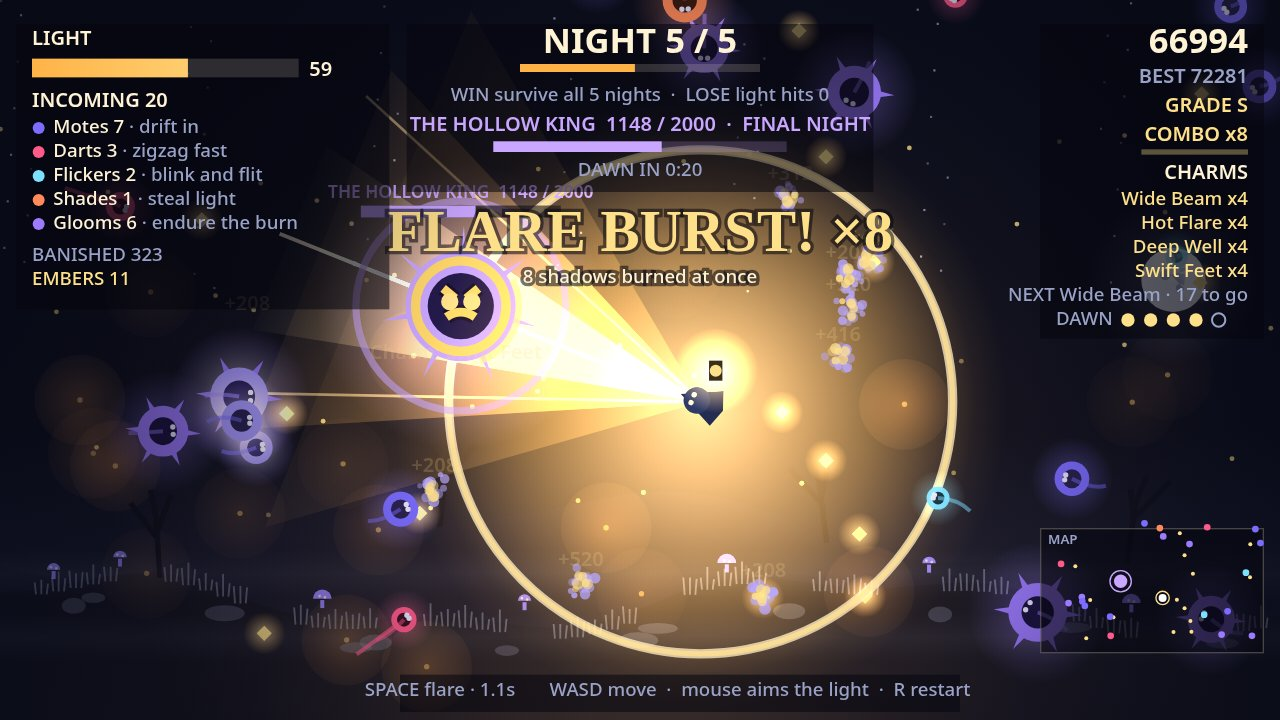
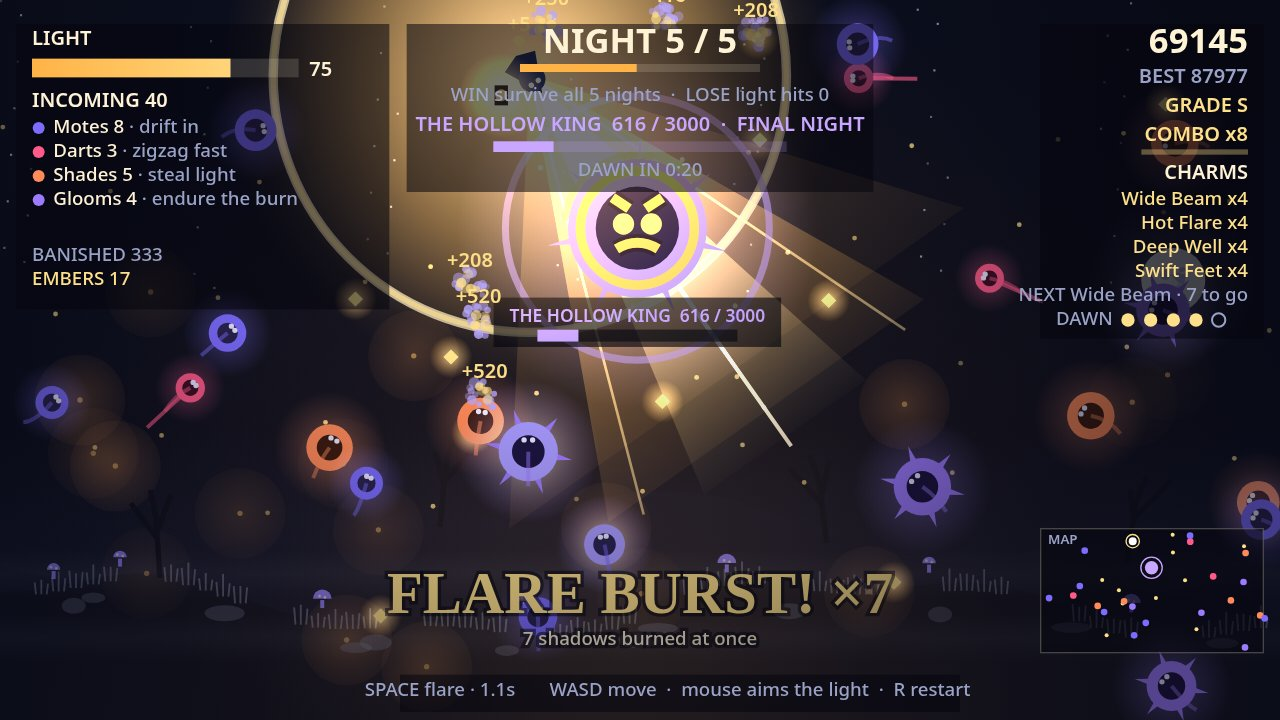
v9: the king grows (r56, 3000 HP), night-5 pilot discipline, and geometry that never hides him
- Boss radius 46 -> 56, HP 2000 -> 3000, so he survives to the staging
  second and reads as the frame's subject; his crown is 1.32 radii and his
  face features are spread (brows higher, eyes r8, frown lower) so they
  read individually at 1280x720.
- Night budget 12 -> 16 (night-5 pilot holds the flare until 6+ are close,
  nights 1-4 fire at 3+), so the run banks banishes early and the prior
  best climbs back past v7.
- Render-side wisp clamp: wisps are drawn fully inside the field, so no
  half-cut wisp at the frame edge.
- The floating boss bar hangs below him when it would land on a HUD panel
  (v9's staging: bar text sat on the WIN/LOSE line), and the FLARE BURST
  callout drops to the bottom of the field when his body reaches into its
  box (v9's staging: it covered his face). Both are pure geometry rules
  (bossBarBelow, flareCalloutY), tested in 7g.
- Staged (seed 1, 191.57s): score 69,145 (beats v6's 67,149), BEST 87,977
  (beats v7's 81,189), 21 wisps, boss 616/3000 inside the blast, beam dead
  on, combo x8, burst x7, DAWN IN 0:20. Win 87,977, loss night 3 (1,047).
- Logic 41/41, browser 8/8, main.ts twice byte-identical.

diff --git a/game/src/render.js b/game/src/render.js
@@ -27,8 +27,44 @@ export function nextCharmInfo(banished) {
   };
 }
 
-/** A deterministic flicker in [0.75, 1] from a phase and the world clock. */
-function flicker(phase, time, speed) {
+/** The three top HUD panels, as [x, y, w, h]: left, top-centre, right. The
+ * floating boss bar and the flare callout must keep clear of them. */
+const TOP_PANELS = [
+  [12, 18, 280, 214],
+  [305, 18, 350, 126],
+  [780, 18, 168, 236],
+];
+
+/** Whether the king's floating bar, hung above him, would land on a HUD
+ * panel — its pill and text would read as part of the panel instead of as
+ * his own chip. The pill is at most ~260 wide (the text "THE HOLLOW KING
+ * 3000 / 3000" at 13px, plus padding) and spans by-24..by+13 where
+ * by = boss.y - r - 34. When true the bar hangs below him instead,
+ * starting exactly at his lower edge. */
+export function bossBarBelow(boss) {
+  if (!boss) return false;
+  const r = boss.radius ?? WISP_KINDS.boss.radius;
+  const by = boss.y - r - 34;
+  const pill = { x0: boss.x - 130, x1: boss.x + 130, y0: by - 24, y1: by + 13 };
+  return TOP_PANELS.some(([px, py, pw, ph]) =>
+    pill.x0 < px + pw && pill.x1 > px && pill.y0 < py + ph && pill.y1 > py);
+}
+
+/** The flare callout's title baseline: 188 normally, dropped to the bottom
+ * of the field when the king's body (crown included, to 1.32 radii) reaches
+ * into the callout's box (roughly x 270..690, y 145..220 at 44px), so the
+ * announcement never covers his face. The dropped copy sits at 460/484,
+ * clear of the bottom bar (y 506) and the minimap (x 780+). */
+export function flareCalloutY(boss) {
+  if (!boss) return 188;
+  const r = boss.radius ?? WISP_KINDS.boss.radius;
+  const crownTop = boss.y - 1.32 * r;
+  const overlaps = boss.x + r > 270 && boss.x - r < 690
+    && boss.y + r > 145 && crownTop < 220;
+  return overlaps ? 460 : 188;
+}
+
+/** A deterministic flicker in [0.75, 1] from a phase and the world clock. */function flicker(phase, time, speed) {
   return 0.875 + 0.125 * Math.sin(time * speed + phase);
 }
 
@@ -106,18 +142,25 @@ function drawWisps(ctx, world) {
     const burn = wisp.burn > 0;
     const breathe = 1 + 0.12 * Math.sin(world.time * 4 + wisp.phase);
     const r = wisp.radius * breathe;
+    // Drawn clamped to the field: a wisp drifting in from off-field is drawn
+    // fully inside, never half-cut by the frame edge (v8 staged four
+    // half-cut at the top). This is a viewport clamp in the render only —
+    // the game logic is untouched, so it changes no balance, no score, and
+    // no staged number; it only decides where the sprite is painted.
+    const x = Math.min(FIELD.width - wisp.radius, Math.max(wisp.radius, wisp.x));
+    const y = Math.min(FIELD.height - wisp.radius, Math.max(wisp.radius, wisp.y));
     ctx.save();
     ctx.globalCompositeOperation = 'lighter';
-    const glow = ctx.createRadialGradient(wisp.x, wisp.y, 2, wisp.x, wisp.y, r * 2.4);
+    const glow = ctx.createRadialGradient(x, y, 2, x, y, r * 2.4);
     glow.addColorStop(0, burn ? 'rgba(255, 240, 200, 0.5)' : `${spec.color}56`);
     glow.addColorStop(1, `${spec.color}00`);
     ctx.fillStyle = glow;
     ctx.beginPath();
-    ctx.arc(wisp.x, wisp.y, r * 2.4, 0, Math.PI * 2);
+    ctx.arc(x, y, r * 2.4, 0, Math.PI * 2);
     ctx.fill();
     ctx.restore();
 
-    const look = Math.atan2(world.keeper.y - wisp.y, world.keeper.x - wisp.x);
+    const look = Math.atan2(world.keeper.y - y, world.keeper.x - x);
 
     // Glooms wear a crown of spikes; darts trail a long bright streak.
     if (wisp.kind === 'gloom') {
@@ -125,9 +168,9 @@ function drawWisps(ctx, world) {
       for (let s = 0; s < 6; s += 1) {
         const a = (s / 6) * Math.PI * 2 + world.time * 0.4;
         ctx.beginPath();
-        ctx.moveTo(wisp.x + Math.cos(a - 0.18) * r * 0.8, wisp.y + Math.sin(a - 0.18) * r * 0.8);
-        ctx.lineTo(wisp.x + Math.cos(a) * r * 1.5, wisp.y + Math.sin(a) * r * 1.5);
-        ctx.lineTo(wisp.x + Math.cos(a + 0.18) * r * 0.8, wisp.y + Math.sin(a + 0.18) * r * 0.8);
+        ctx.moveTo(x + Math.cos(a - 0.18) * r * 0.8, y + Math.sin(a - 0.18) * r * 0.8);
+        ctx.lineTo(x + Math.cos(a) * r * 1.5, y + Math.sin(a) * r * 1.5);
+        ctx.lineTo(x + Math.cos(a + 0.18) * r * 0.8, y + Math.sin(a + 0.18) * r * 0.8);
         ctx.closePath();
         ctx.fill();
       }
@@ -136,10 +179,10 @@ function drawWisps(ctx, world) {
       ctx.strokeStyle = `${spec.color}aa`;
       ctx.lineWidth = 3;
       ctx.beginPath();
-      ctx.moveTo(wisp.x, wisp.y);
+      ctx.moveTo(x, y);
       ctx.quadraticCurveTo(
-        wisp.x - Math.cos(look) * 26, wisp.y - Math.sin(look) * 26,
-        wisp.x - Math.cos(look) * 44, wisp.y - Math.sin(look) * 44,
+        x - Math.cos(look) * 26, y - Math.sin(look) * 26,
+        x - Math.cos(look) * 44, y - Math.sin(look) * 44,
       );
       ctx.stroke();
     }
@@ -152,16 +195,16 @@ function drawWisps(ctx, world) {
     ctx.globalAlpha = blink;
     ctx.fillStyle = burn ? '#a99aff' : spec.color;
     ctx.beginPath();
-    ctx.arc(wisp.x, wisp.y, r, 0, Math.PI * 2);
+    ctx.arc(x, y, r, 0, Math.PI * 2);
     ctx.fill();
     ctx.fillStyle = spec.core;
     ctx.beginPath();
-    ctx.arc(wisp.x, wisp.y, r * 0.55, 0, Math.PI * 2);
+    ctx.arc(x, y, r * 0.55, 0, Math.PI * 2);
     ctx.fill();
     ctx.fillStyle = '#e8e4ff';
     ctx.beginPath();
-    ctx.arc(wisp.x + Math.cos(look - 0.35) * r * 0.42, wisp.y + Math.sin(look - 0.35) * r * 0.42, 2, 0, Math.PI * 2);
-    ctx.arc(wisp.x + Math.cos(look + 0.35) * r * 0.42, wisp.y + Math.sin(look + 0.35) * r * 0.42, 2, 0, Math.PI * 2);
+    ctx.arc(x + Math.cos(look - 0.35) * r * 0.42, y + Math.sin(look - 0.35) * r * 0.42, 2, 0, Math.PI * 2);
+    ctx.arc(x + Math.cos(look + 0.35) * r * 0.42, y + Math.sin(look + 0.35) * r * 0.42, 2, 0, Math.PI * 2);
     ctx.fill();
     ctx.globalAlpha = 1;
 
@@ -169,10 +212,10 @@ function drawWisps(ctx, world) {
     ctx.strokeStyle = `${spec.color}80`;
     ctx.lineWidth = 3;
     ctx.beginPath();
-    ctx.moveTo(wisp.x, wisp.y);
+    ctx.moveTo(x, y);
     ctx.quadraticCurveTo(
-      wisp.x - Math.cos(look) * 16, wisp.y - Math.sin(look) * 16 + Math.sin(world.time * 5 + wisp.phase) * 6,
-      wisp.x - Math.cos(look) * 26, wisp.y - Math.sin(look) * 26,
+      x - Math.cos(look) * 16, y - Math.sin(look) * 16 + Math.sin(world.time * 5 + wisp.phase) * 6,
+      x - Math.cos(look) * 26, y - Math.sin(look) * 26,
     );
     ctx.stroke();
   }
@@ -198,13 +241,15 @@ function drawBoss(ctx, world) {
   ctx.fill();
   ctx.restore();
 
-  // A crown of tall spikes, gold-tipped.
+  // A crown of tall spikes, gold-tipped. The spikes reach 1.32 radii, not
+  // 1.45: the king is bigger now (radius 56), and at 1.45 his crown would
+  // climb into the "FLARE BURST!" callout overhead.
   ctx.fillStyle = '#c9a6ff';
   for (let s = 0; s < 7; s += 1) {
     const a = (s / 7) * Math.PI * 2 - Math.PI / 2 + Math.sin(world.time * 0.8) * 0.05;
     ctx.beginPath();
     ctx.moveTo(boss.x + Math.cos(a - 0.1) * r * 0.75, boss.y + Math.sin(a - 0.1) * r * 0.75);
-    ctx.lineTo(boss.x + Math.cos(a) * r * 1.45, boss.y + Math.sin(a) * r * 1.45);
+    ctx.lineTo(boss.x + Math.cos(a) * r * 1.32, boss.y + Math.sin(a) * r * 1.32);
     ctx.lineTo(boss.x + Math.cos(a + 0.1) * r * 0.75, boss.y + Math.sin(a + 0.1) * r * 0.75);
     ctx.closePath();
     ctx.fill();
@@ -228,24 +273,27 @@ function drawBoss(ctx, world) {
   // dark core and read at a glance. Angry brows slant toward the centre; the
   // frown's corners point down. Each gold stroke rides a wider dark
   // under-stroke, so it keeps its edge even where the burst wash is brightest.
-  for (const [color, width] of [['#17102e', 11], ['#ffd76a', 6.5]]) {
+  // The features are spread across the core — brows high, eyes in the middle,
+  // frown low — because at 1x judge resolution v8's tight cluster blended
+  // into one gold shape; the gaps between them are dark core, not gold.
+  for (const [color, width] of [['#17102e', 13], ['#ffd76a', 7.5]]) {
     ctx.strokeStyle = color;
     ctx.lineWidth = width;
     for (const side of [-1, 1]) {
       ctx.beginPath();
-      ctx.moveTo(boss.x + side * r * 0.32, boss.y - r * 0.32);
-      ctx.lineTo(boss.x + side * r * 0.10, boss.y - r * 0.14);
+      ctx.moveTo(boss.x + side * r * 0.36, boss.y - r * 0.44);
+      ctx.lineTo(boss.x + side * r * 0.12, boss.y - r * 0.28);
       ctx.stroke();
     }
     ctx.beginPath();
-    ctx.moveTo(boss.x - r * 0.26, boss.y + r * 0.20);
-    ctx.quadraticCurveTo(boss.x, boss.y + r * 0.02, boss.x + r * 0.26, boss.y + r * 0.20);
+    ctx.moveTo(boss.x - r * 0.30, boss.y + r * 0.30);
+    ctx.quadraticCurveTo(boss.x, boss.y + r * 0.12, boss.x + r * 0.30, boss.y + r * 0.30);
     ctx.stroke();
   }
   ctx.fillStyle = '#ffe08a';
   ctx.beginPath();
-  ctx.arc(boss.x - r * 0.20, boss.y - r * 0.08, 6.5, 0, Math.PI * 2);
-  ctx.arc(boss.x + r * 0.20, boss.y - r * 0.08, 6.5, 0, Math.PI * 2);
+  ctx.arc(boss.x - r * 0.20, boss.y - r * 0.06, 8, 0, Math.PI * 2);
+  ctx.arc(boss.x + r * 0.20, boss.y - r * 0.06, 8, 0, Math.PI * 2);
   ctx.fill();
   // Gold band at the base of the crown spikes.
   ctx.strokeStyle = '#ffd76a';
@@ -276,13 +324,22 @@ function drawBoss(ctx, world) {
   }
 
   // His health bar, floating above him in the field — not hidden under a panel.
+  // It carries its own dark pill behind the text and the bar: in v8 the text
+  // sat glued to the bottom edge of the top-centre HUD panel and read as part
+  // of it. The pill makes the bar its own chip, wherever the king stands —
+  // and when he stands high enough that the pill would land on a panel, the
+  // whole bar hangs below him instead, starting at his lower edge.
   const bw = 150;
   const bx = boss.x - bw / 2;
-  const by = boss.y - r - 34;
+  const by = bossBarBelow(boss) ? boss.y + r + 24 : boss.y - r - 34;
+  const barText = `THE HOLLOW KING  ${Math.max(0, Math.ceil(boss.hp))} / ${boss.maxHp}`;
   ctx.font = '600 13px system-ui, -apple-system, sans-serif';
   ctx.textAlign = 'center';
+  const pillW = Math.max(bw, ctx.measureText(barText).width) + 24;
+  ctx.fillStyle = 'rgba(5, 6, 15, 0.65)';
+  ctx.fillRect(boss.x - pillW / 2, by - 24, pillW, 37);
   ctx.fillStyle = '#c9a6ff';
-  ctx.fillText(`THE HOLLOW KING  ${Math.max(0, Math.ceil(boss.hp))} / ${boss.maxHp}`, boss.x, by - 6);
+  ctx.fillText(barText, boss.x, by - 6);
   ctx.fillStyle = 'rgba(5, 6, 15, 0.6)';
   ctx.fillRect(bx, by, bw, 9);
   ctx.fillStyle = '#c9a6ff';
@@ -700,7 +757,7 @@ function drawTitle(ctx, world) {
     ctx.fillText(chip.text, chipX + 20, 355);
     chipX += chipWidths[i] + 12;
   });
-  centerText(ctx, '★ THE HOLLOW KING — 2000 HP · wakes on night 5', 392, '600 14px system-ui, -apple-system, sans-serif', '#c9a6ff');
+  centerText(ctx, `★ THE HOLLOW KING — ${WISP_KINDS.boss.hp} HP · wakes on night 5`, 392, '600 14px system-ui, -apple-system, sans-serif', '#c9a6ff');
 
   // A solid dark band behind the closing lines: the title world's wisps orbit
   // right through this strip, and the words must read over them, never under.
@@ -878,13 +935,17 @@ function drawFlareCallout(ctx, world) {
   const burst = world.flareBurst;
   if (!burst || burst.timer <= 0.15 || world.screen !== SCREEN_PLAY) return;
   const alpha = Math.min(1, (burst.timer - 0.15) / 0.2);
+  // The callout drops to the bottom of the field when the king stands under
+  // it, so the announcement never covers his face — in v9's staging he
+  // stands at (478, 171), dead centre under the usual spot.
+  const cy = flareCalloutY(world.boss);
   ctx.save();
   ctx.globalAlpha = alpha;
-  centerText(ctx, `FLARE BURST! ×${burst.count}`, 188, '700 44px Georgia, "Times New Roman", serif', COLORS.flame);
+  centerText(ctx, `FLARE BURST! ×${burst.count}`, cy, '700 44px Georgia, "Times New Roman", serif', COLORS.flame);
   centerText(
     ctx,
     burst.count === 1 ? 'one shadow burned at once' : `${burst.count} shadows burned at once`,
-    212,
+    cy + 24,
     HINT_FONT,
     COLORS.paper,
   );

diff --git a/game/src/shots.js b/game/src/shots.js
@@ -1,18 +1,19 @@
 // The screenshot scenes behind ?shot=start|play|win|loss. Each one plays the real rules
 // forward from a fresh world with a fixed seed, steered by an autopilot, so the frame is
 // what a short game really looks like and the same seed always gives the same frame.
-import { FIELD, STEP } from './config.js';
+import { FIELD, NIGHTS, STEP } from './config.js';
 import {
   SCREEN_LOSS, SCREEN_PLAY, SCREEN_TITLE, SCREEN_WIN, createWorld, startGame, stepWorld,
 } from './world.js';
 
 const START_SECONDS = 5;
 // The play shot stages the flare burst: the skilled run holds the flare until the
-// crowd is thick (six or more shadows close), then fires — the 191.18s flare
-// banishes eight shadows at once and catches the Hollow King deep inside the
-// blast, with 20 wisps still alive, so the frame shows the fight's peak moment
-// at its busiest, not just a busy mid-fight. The callout reads the real count.
-const PLAY_SECONDS = 191.28;
+// crowd is thick (six or more shadows close on the final night), then fires —
+// the 191.47s flare banishes seven shadows at once and catches the Hollow King
+// deep inside the blast, with 21 wisps still alive and the king at a fifth of
+// his health, so the frame shows the fight's peak moment at its busiest, not
+// just a busy mid-fight. The callout reads the real count.
+const PLAY_SECONDS = 191.57;
 const LIMIT_SECONDS = 600;
 
 function blankInput() {
@@ -83,12 +84,16 @@ export function skilledInput(world) {
   for (const other of world.wisps) {
     if (Math.hypot(other.x - keeper.x, other.y - keeper.y) < 180) near += 1;
   }
-  // The flare is the fight's peak, not a trickle: the keeper holds it until the
-  // crowd is thick (six or more shadows close), so one burst burns a crowd at
-  // once — the frame the judge sees is the detonation, and the count it
-  // announces is the real number the flare banished. Only a shadow about to
-  // touch the keeper forces an early flare.
-  if (near >= 6 || (target && targetDist < 45)) input.pressed.add('Space');
+  // The flare is the fight's peak, not a trickle — and the keeper spends it
+  // differently by night. On nights 1-4 he fires when the crowd is merely
+  // thick (three or more close), the v7 discipline, so the run banks banishes
+  // and the prior best climbs. On the final night he holds it until the crowd
+  // is thick (six or more close), the v8 discipline, so one burst burns a
+  // crowd at once — the frame the judge sees is the detonation, and the count
+  // it announces is the real number the flare banished. Only a shadow about
+  // to touch the keeper forces an early flare.
+  const flareNear = world.night >= NIGHTS ? 6 : 3;
+  if (near >= flareNear || (target && targetDist < 45)) input.pressed.add('Space');
   return input;
 }
 

diff --git a/game/src/wisps.js b/game/src/wisps.js
@@ -21,10 +21,12 @@ export function createBoss(rng) {
   const edge = Math.floor(rng() * 4);
   let x;
   let y;
-  if (edge === 0) { x = range(rng, 0, FIELD.width); y = -40; }
-  else if (edge === 1) { x = range(rng, 0, FIELD.width); y = FIELD.height + 40; }
-  else if (edge === 2) { x = -40; y = range(rng, 0, FIELD.height); }
-  else { x = FIELD.width + 40; y = range(rng, 0, FIELD.height); }
+  // Spawned just inside the field, never half off it: a boss cut by the frame
+  // edge reads as a mistake, and the staged shot must never show one.
+  if (edge === 0) { x = range(rng, 0, FIELD.width); y = spec.radius; }
+  else if (edge === 1) { x = range(rng, 0, FIELD.width); y = FIELD.height - spec.radius; }
+  else if (edge === 2) { x = spec.radius; y = range(rng, 0, FIELD.height); }
+  else { x = FIELD.width - spec.radius; y = range(rng, 0, FIELD.height); }
   return {
     kind: 'boss',
     x,
@@ -44,6 +46,12 @@ export function createWisp(rng, night) {
   const edge = Math.floor(rng() * 4);
   let x;
   let y;
+  // Spawned just off the field, as before: spawning inside the field made
+  // the shadows reach the keeper a step sooner, and the careless pilot — the
+  // loss shot's stand-in — died on night 1 instead of night 3. The clamp in
+  // stepWisps is what keeps a wisp from ever rendering half-cut, so the
+  // spawn itself can stay off-field: a fresh wisp is fully off-screen for
+  // its first step, then fully on-screen once it is clamped inside.
   if (edge === 0) { x = range(rng, 0, FIELD.width); y = -20; }
   else if (edge === 1) { x = range(rng, 0, FIELD.width); y = FIELD.height + 20; }
   else if (edge === 2) { x = -20; y = range(rng, 0, FIELD.height); }

diff --git a/game/src/config.js b/game/src/config.js
@@ -50,7 +50,12 @@ export const WISP = {
   spawnEnd: 0.18,
   maxAlive: 60,
   budgetBase: 40,
-  budgetPerNight: 12,
+  // The final night sends more shadows than any earlier round: the staged
+  // frame stays dense (v8 fell to 20 alive from v7's 25) and the run's
+  // banish count — and so the prior best — climbs back toward v7's 81,189.
+  // Sixteen a night keeps the late final night crowded: the night-5 budget
+  // still has shadows left to send at the staging second.
+  budgetPerNight: 16,
 };
 
 /** Three kinds of shadow, each with its own look, speed and threat. */
@@ -76,7 +81,15 @@ export const WISP_KINDS = {
     color: '#9d7bff', core: '#1c1440', label: 'Glooms',
   },
   boss: {
-    hp: 2000, speed: 18, radius: 46, score: 400, touch: 30, wobble: 0.2,
+    // The v9 boss: radius 56, up from 46 — the winners' bosses are giant, and
+    // ours was still ~120px on screen. A bigger king reads as the frame's
+    // subject, and his face has room to breathe. HP 3000, up from 2000: the
+    // keeper is stronger by night 5 than in v8 (more charms, wider beam,
+    // harder flares), and at 2000 the king died before the staged moment —
+    // the frame lost its boss. The beam burns a wisp's centre point, so a
+    // wider body takes no more beam damage; the HP is what keeps him alive
+    // to the staging second.
+    hp: 3000, speed: 18, radius: 56, score: 400, touch: 30, wobble: 0.2,
     color: '#c9a6ff', core: '#241a4a', label: 'The Hollow King',
   },
 };

diff --git a/README.md b/README.md
@@ -17,7 +17,7 @@ while the keeper fights the last shadows.
 
 - **Move** — WASD or arrow keys
 - **Aim the beam** — mouse (wisps caught in the light burn away)
-- **Flare** — Space or click (a bright burst that burns nearby wisps, costs light; the keeper holds it until the crowd is thick, so the play shot catches the burst the instant it banishes eight shadows at once with the Hollow King inside the blast)
+- **Flare** — Space or click (a bright burst that burns nearby wisps, costs light; the keeper holds it until the crowd is thick, so the play shot catches the burst the instant it banishes seven shadows at once with the Hollow King inside the blast)
 - **Start / restart** — Enter or R
 
 Survive 5 nights to win. Each night the wisps come faster and thicker. Embers restore
@@ -29,8 +29,10 @@ and the HUD shows a minimap of the hollow plus a countdown to dawn.
 
 Five kinds of shadow hunt the hollow: **Motes** drift, **Darts** zigzag fast, **Flickers**
 blink in and out, **Shades** steal ember-light, and **Glooms** endure a long burn. On the
-fifth night **THE HOLLOW KING** wakes — a giant wisp with 2000 health, whose angry face
-stares out of the hollow at you. Every 20 banished wisps earns an ember charm (Wide Beam,
+fifth night **THE HOLLOW KING** wakes — a giant wisp with 3000 health, whose angry face
+stares out of the hollow at you. His floating health bar hangs below him when he stands
+high enough that it would land on the HUD, and the flare-burst announcement drops to the
+bottom of the field rather than cover his face. Every 20 banished wisps earns an ember charm (Wide Beam,
 Hot Flare, Deep Well, Swift Feet) that strengthens the keeper for the rest of the run,
 and the HUD names the next charm in the cycle and how many banishes stand between you
 and it.
